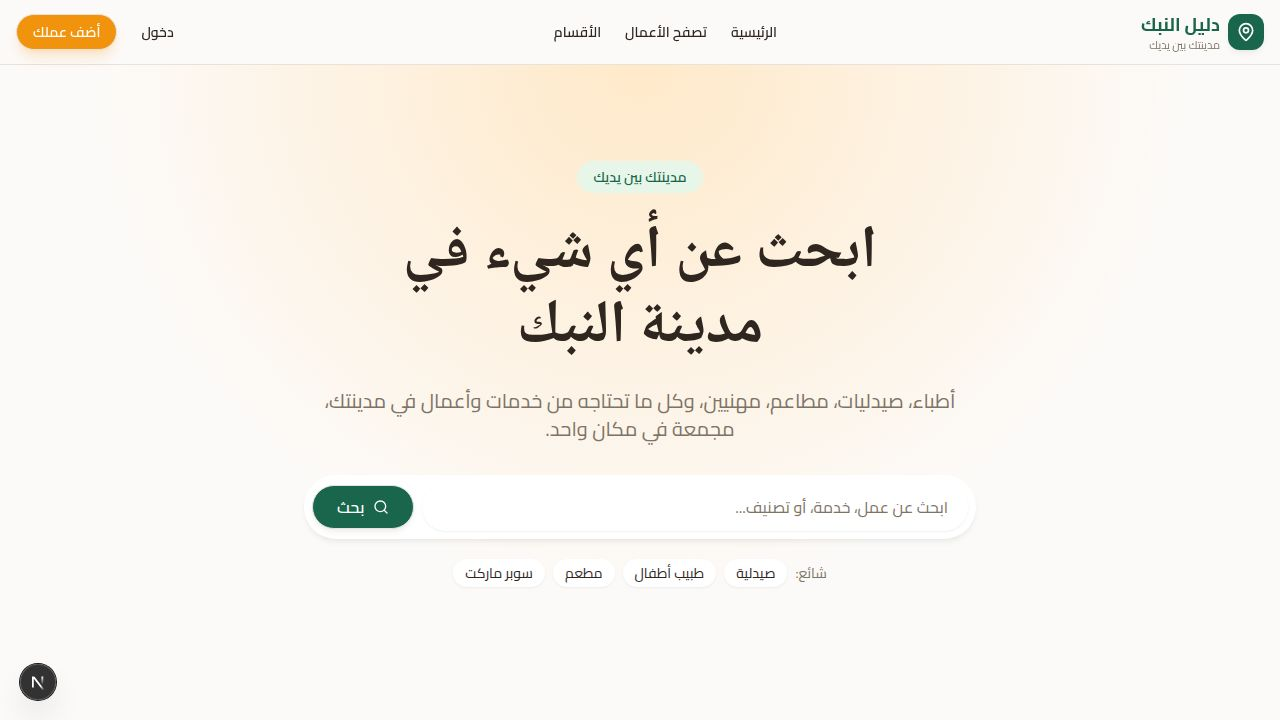
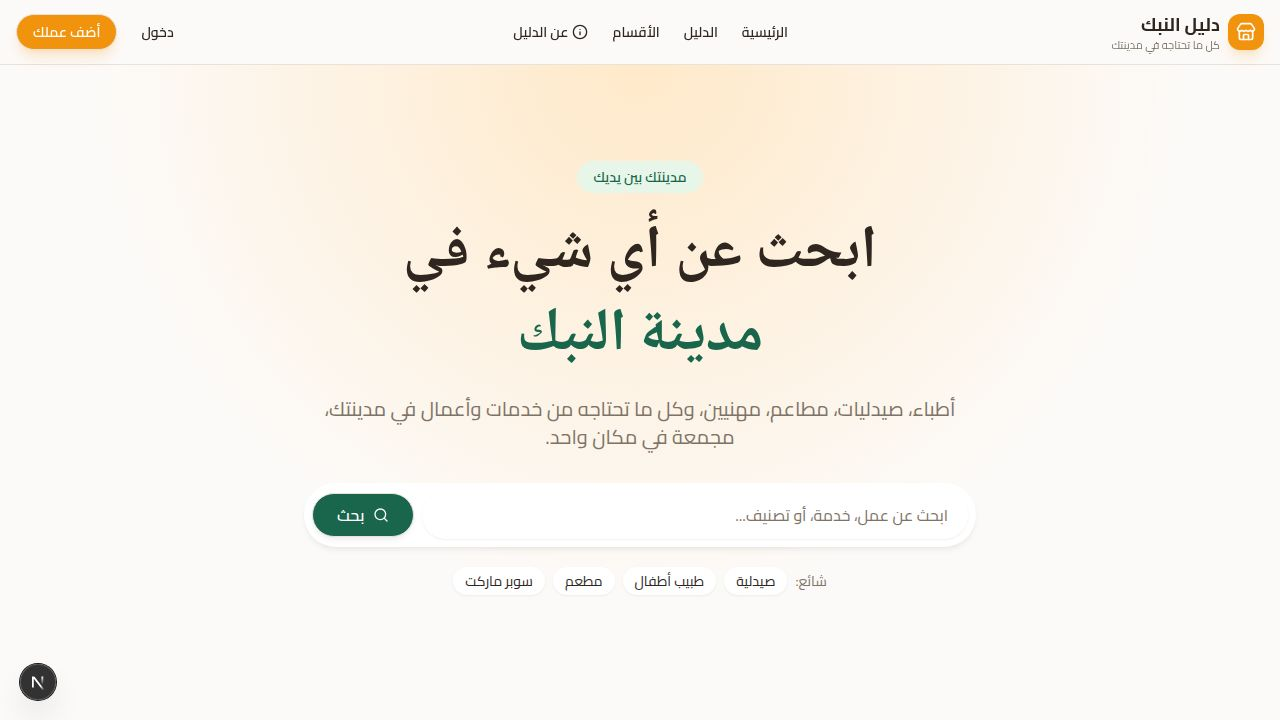
Update homepage and about page styling for better visual appeal
This commit introduces several styling updates to the homepage and the new 'about' page, including font weight and letter spacing adjustments on the homepage heading, color changes for the city name to align with brand guidelines, and the addition of a dedicated 'about' page with updated navigation links. It also modifies internal manifest files and CSS to reflect these changes.

Replit-Commit-Author: Agent
Replit-Commit-Session-Id: f7ecb00d-71c8-4548-a06b-df4169cabccf
Replit-Commit-Checkpoint-Type: full_checkpoint
Replit-Commit-Event-Id: 78d3188d-23a6-4a35-8f7a-7d10519737bd
Replit-Commit-Screenshot-Url: https://storage.googleapis.com/screenshot-production-us-central1/537a0f72-90f7-4e15-8ba5-b9c86adb52bb/f7ecb00d-71c8-4548-a06b-df4169cabccf/KeZWKaP
Replit-Helium-Checkpoint-Created: true

diff --git a/artifacts/nabk-directory/src/app/about/page.tsx b/artifacts/nabk-directory/src/app/about/page.tsx
@@ -1,0 +1,101 @@
+import Link from "next/link";
+import { Header } from "@/components/layout/Header";
+import { Footer } from "@/components/layout/Footer";
+import { Card, CardContent } from "@/components/ui/card";
+import { Button } from "@/components/ui/button";
+import { Store, MapPin, Search, Users } from "lucide-react";
+
+export const metadata = {
+  title: "عن الدليل — دليل النبك",
+  description:
+    "دليل النبك هو دليل محلي شامل لمدينة النبك في سوريا، يجمع كل الخدمات والأعمال في مكان واحد سهل الوصول.",
+};
+
+export default function AboutPage() {
+  return (
+    <div className="min-h-screen bg-background">
+      <Header />
+
+      <section className="gradient-hero">
+        <div className="container mx-auto px-4 py-14 text-center md:py-20">
+          <span className="inline-block rounded-full bg-secondary px-4 py-1.5 text-sm font-semibold text-accent">
+            عن الدليل
+          </span>
+          <h1 className="mt-6 text-3xl font-bold leading-tight md:text-5xl">
+            دليل النبك — مدينتك بين يديك
+          </h1>
+          <p className="mx-auto mt-5 max-w-2xl text-base text-muted-foreground md:text-lg">
+            دليل محلي شامل لمدينة النبك في سوريا. نجمع الأطباء، الصيدليات،
+            المطاعم، المهنيين، وكل ما تحتاجه من خدمات وأعمال في مكانٍ واحدٍ
+            سهل الوصول.
+          </p>
+        </div>
+      </section>
+
+      <section className="container mx-auto px-4 py-12">
+        <div className="grid gap-5 md:grid-cols-3">
+          <Card>
+            <CardContent className="space-y-3 p-6 text-center">
+              <div className="mx-auto flex h-14 w-14 items-center justify-center rounded-2xl bg-secondary text-secondary-foreground">
+                <Search className="h-7 w-7" />
+              </div>
+              <h3 className="text-lg font-bold">ابحث بسهولة</h3>
+              <p className="text-sm text-muted-foreground">
+                اعثر على أي عمل أو خدمة في النبك من خلال البحث المباشر أو
+                التصفح حسب التصنيف.
+              </p>
+            </CardContent>
+          </Card>
+
+          <Card>
+            <CardContent className="space-y-3 p-6 text-center">
+              <div className="mx-auto flex h-14 w-14 items-center justify-center rounded-2xl bg-secondary text-secondary-foreground">
+                <MapPin className="h-7 w-7" />
+              </div>
+              <h3 className="text-lg font-bold">معلومات دقيقة</h3>
+              <p className="text-sm text-muted-foreground">
+                أرقام تواصل، عناوين، ساعات عمل، وحالة "مفتوح الآن" لحظية —
+                كل شيء في صفحة واحدة منظمة.
+              </p>
+            </CardContent>
+          </Card>
+
+          <Card>
+            <CardContent className="space-y-3 p-6 text-center">
+              <div className="mx-auto flex h-14 w-14 items-center justify-center rounded-2xl bg-secondary text-secondary-foreground">
+                <Users className="h-7 w-7" />
+              </div>
+              <h3 className="text-lg font-bold">لخدمة المدينة</h3>
+              <p className="text-sm text-muted-foreground">
+                دليل مجاني لكل سكان النبك — لتسهيل التواصل بين أصحاب الأعمال
+                والزبائن.
+              </p>
+            </CardContent>
+          </Card>
+        </div>
+      </section>
+
+      <section className="container mx-auto px-4 py-10">
+        <div className="rounded-3xl bg-accent px-6 py-12 text-center text-accent-foreground shadow-card md:px-12 md:py-16">
+          <div className="mx-auto flex h-14 w-14 items-center justify-center rounded-2xl bg-primary text-primary-foreground shadow-cta">
+            <Store className="h-7 w-7" />
+          </div>
+          <h2 className="mt-4 text-2xl font-bold md:text-3xl">
+            صاحب عمل أو خدمة في النبك؟
+          </h2>
+          <p className="mx-auto mt-3 max-w-xl text-base opacity-90">
+            انضم إلى أكبر دليل محلي في المدينة. أضف عملك مجاناً واجعل وصول
+            الزبائن إليك أسهل.
+          </p>
+          <Link href="/sign-up" className="mt-6 inline-block">
+            <Button variant="primary" size="lg">
+              أضف عملك الآن
+            </Button>
+          </Link>
+        </div>
+      </section>
+
+      <Footer />
+    </div>
+  );
+}

diff --git a/artifacts/nabk-directory/src/app/page.tsx b/artifacts/nabk-directory/src/app/page.tsx
@@ -67,10 +67,9 @@ export default async function HomePage() {
           <span className="inline-block rounded-full bg-secondary px-4 py-1.5 text-sm font-semibold text-accent">
             مدينتك بين يديك
           </span>
-          <h1 className="mt-6 text-4xl font-bold leading-tight text-foreground md:text-6xl">
+          <h1 className="mt-6 text-4xl font-extrabold leading-tight tracking-tight text-foreground md:text-6xl">
             ابحث عن أي شيء في
-            <br />
-            مدينة النبك
+            <span className="mt-2 block text-accent">مدينة النبك</span>
           </h1>
           <p className="mx-auto mt-5 max-w-2xl text-lg text-muted-foreground md:text-xl">
             أطباء، صيدليات، مطاعم، مهنيين، وكل ما تحتاجه من خدمات وأعمال في

diff --git a/artifacts/nabk-directory/src/components/layout/Header.tsx b/artifacts/nabk-directory/src/components/layout/Header.tsx
@@ -27,7 +27,10 @@ export async function Header() {
           <Link href="/businesses" className="text-sm font-semibold hover:text-accent">
             الدليل
           </Link>
-          <Link href="/categories" className="inline-flex items-center gap-1 text-sm font-semibold hover:text-accent">
+          <Link href="/categories" className="text-sm font-semibold hover:text-accent">
+            الأقسام
+          </Link>
+          <Link href="/about" className="inline-flex items-center gap-1 text-sm font-semibold hover:text-accent">
             <Info className="h-4 w-4" /> عن الدليل
           </Link>
         </nav>